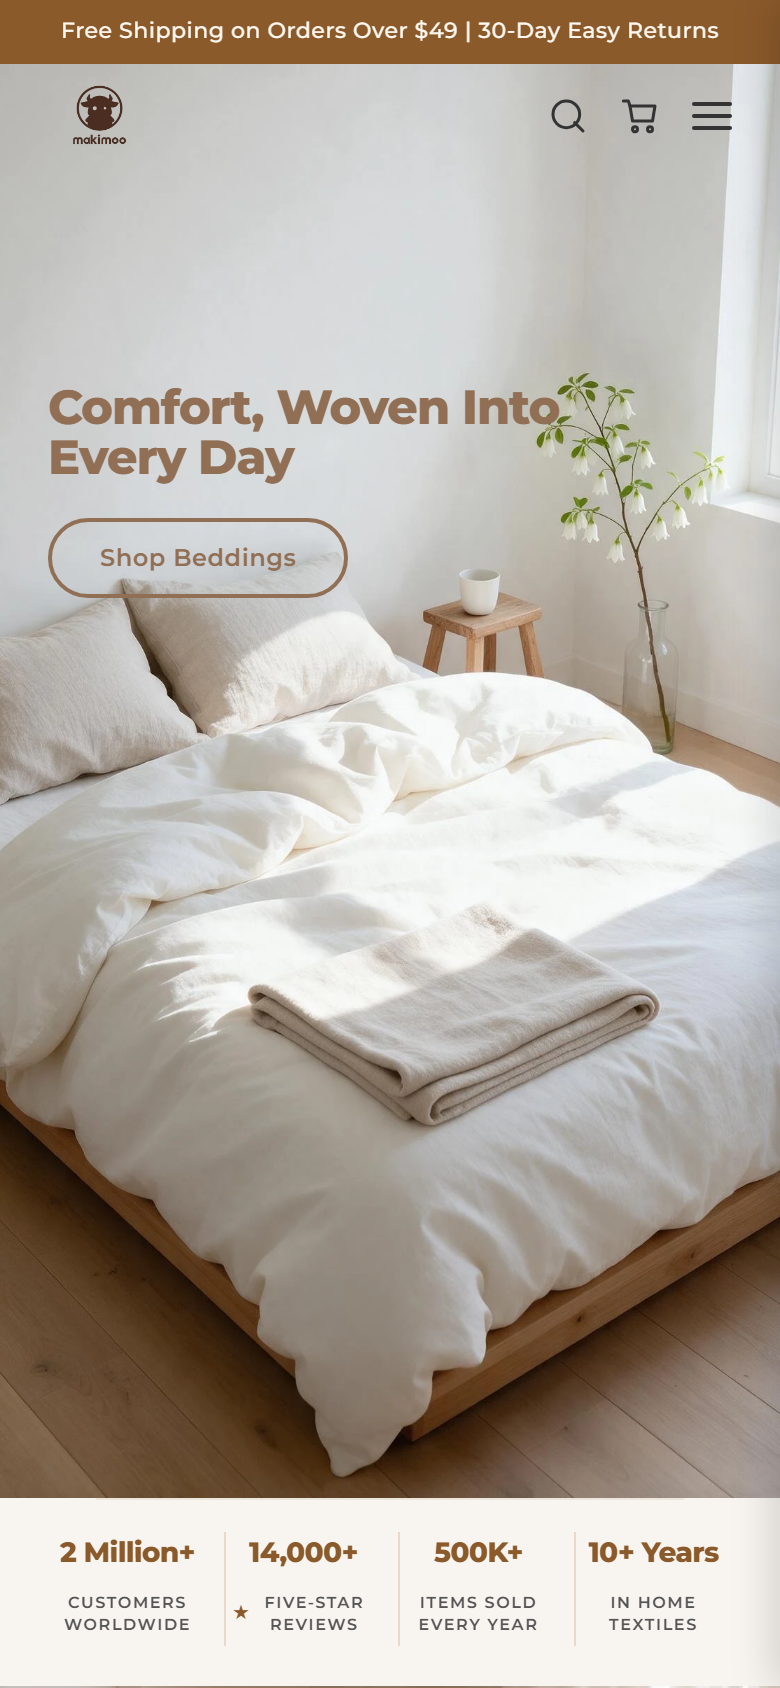
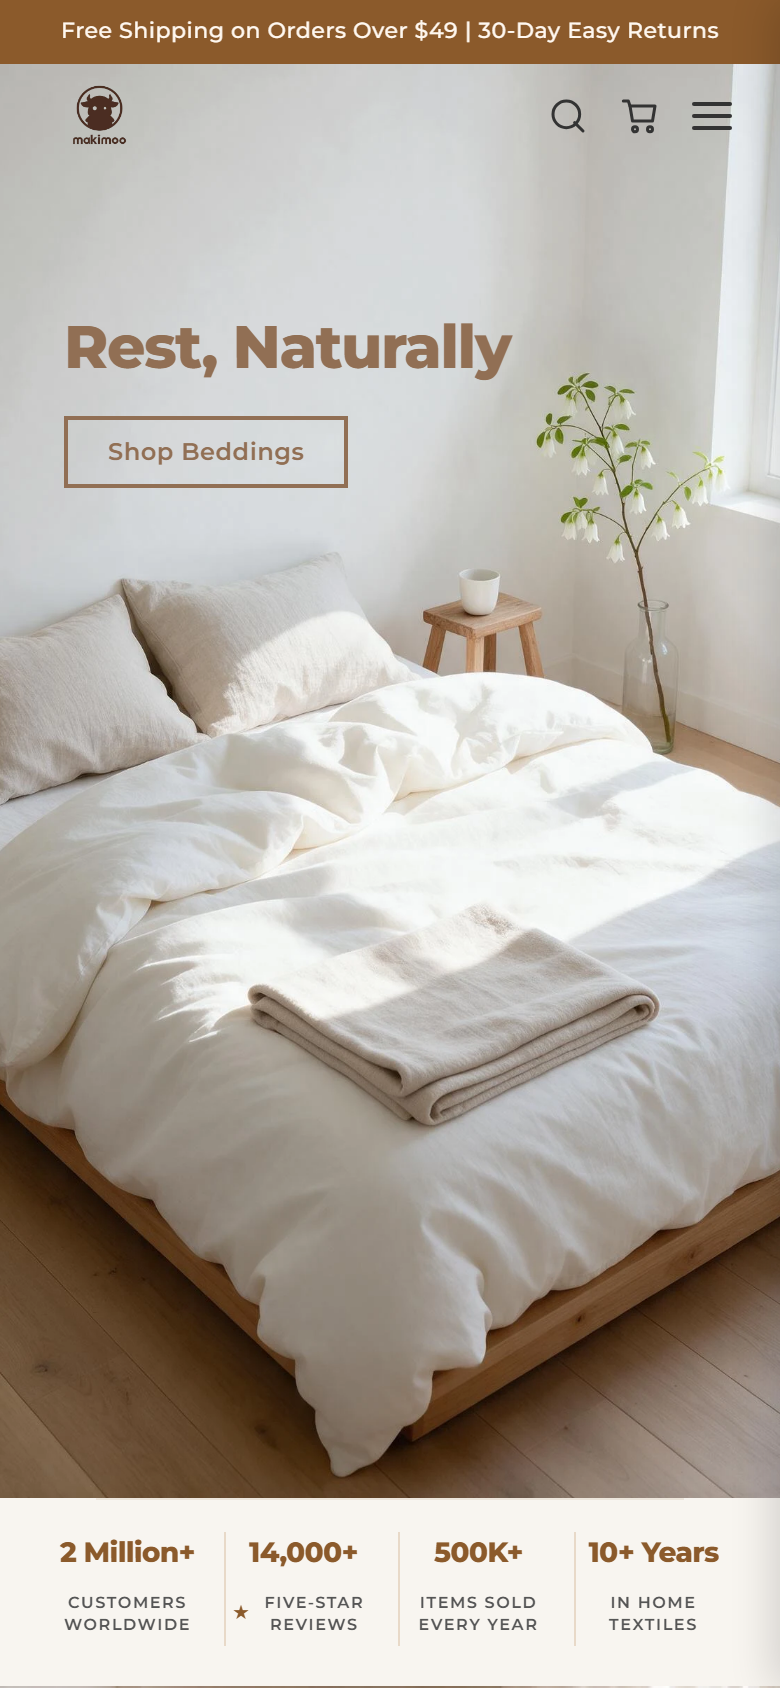
feat(home-hero): 移动端 hero 文案与按键定稿
- 文案改 Rest, Naturally（单行），原木同色 #916F54，30px 加粗
- 文字块改 pt-[15svh] 相对顶部等比定位，跨设备位置一致
- 按键缩小并改直角（桌面端保持圆角）
- 文字右移 8px、整体位置多轮微调

Changed region(s): [[0.0615, 0.1848, 0.7077, 0.3697], [0.4308, 0.3081, 0.4615, 0.3389]]

diff --git a/src/data/product-weights.ts b/src/data/product-weights.ts
@@ -1,6 +1,6 @@
 // Auto-generated by scripts/build-weights.js
 // DO NOT EDIT MANUALLY - 人工赋权改 src/data/weights-overrides.ts 后重跑本脚本
-// Generated at: 2026-10-27T19:12:53.999Z
+// Generated at: 2026-10-27T19:55:34.522Z
 
 export interface ProductWeight {
   /** 一级类目（同分破平用类目平均分） */
@@ -86,7 +86,7 @@ export const PRODUCT_WEIGHTS: Record<string, ProductWeight> = {
   "mk-pc-boucle-white-45": {"type":"Pillows","score":28.5,"perf":28.5,"boost":0},
   "mk-pc-boucle-oatmeal-45": {"type":"Pillows","score":28.6,"perf":28.6,"boost":0},
   "mk-pc-boucle-dustyrose-45": {"type":"Pillows","score":28.4,"perf":28.4,"boost":0},
-  "mk-pc-boucle-sage-45": {"type":"Pillows","score":28.1,"perf":28.1,"boost":0},
+  "mk-pc-boucle-sage-45": {"type":"Pillows","score":28,"perf":28,"boost":0},
   "mk-pc-boucle-white": {"type":"Pillows","score":28.6,"perf":28.6,"boost":0},
   "mk-pc-boucle-oatmeal": {"type":"Pillows","score":28.3,"perf":28.3,"boost":0},
   "mk-pc-boucle-dustyrose": {"type":"Pillows","score":28.6,"perf":28.6,"boost":0},
@@ -155,7 +155,7 @@ export const PRODUCT_WEIGHTS: Record<string, ProductWeight> = {
   "1052755373494-c2": {"type":"Mats","score":23,"perf":23,"boost":0},
   "1046667161713-c2": {"type":"Mats","score":21.7,"perf":21.7,"boost":0},
   "969627065032-c33": {"type":"Blankets","score":21.6,"perf":21.6,"boost":0},
-  "744995685423-c2": {"type":"Mats","score":21.7,"perf":21.7,"boost":0},
+  "744995685423-c2": {"type":"Mats","score":21.6,"perf":21.6,"boost":0},
   "595229918569-c2": {"type":"Mats","score":23.2,"perf":23.2,"boost":0},
   "744995685423": {"type":"Mats","score":21.7,"perf":21.7,"boost":0},
   "595229918569": {"type":"Mats","score":21.7,"perf":21.7,"boost":0},
@@ -259,8 +259,8 @@ export const PRODUCT_WEIGHTS: Record<string, ProductWeight> = {
   "linen3-sage-king": {"type":"Bedding","score":26.3,"perf":26.3,"boost":0},
   "linen3-charcoal-twin": {"type":"Bedding","score":26.5,"perf":26.5,"boost":0},
   "linen3-charcoal-full": {"type":"Bedding","score":26.4,"perf":26.4,"boost":0},
-  "linen3-charcoal-queen": {"type":"Bedding","score":55.6,"perf":25.6,"boost":30},
-  "linen3-charcoal-king": {"type":"Bedding","score":27.2,"perf":27.2,"boost":0},
+  "linen3-charcoal-queen": {"type":"Bedding","score":55.5,"perf":25.5,"boost":30},
+  "linen3-charcoal-king": {"type":"Bedding","score":27.1,"perf":27.1,"boost":0},
   "linen3-dustyblue-twin": {"type":"Bedding","score":26.5,"perf":26.5,"boost":0},
   "linen3-dustyblue-full": {"type":"Bedding","score":26.4,"perf":26.4,"boost":0},
   "linen3-dustyblue-queen": {"type":"Bedding","score":56.3,"perf":26.3,"boost":30},
@@ -274,7 +274,7 @@ export const PRODUCT_WEIGHTS: Record<string, ProductWeight> = {
   "linen3-oatmeal-queen": {"type":"Bedding","score":56.4,"perf":26.4,"boost":30},
   "linen3-oatmeal-king": {"type":"Bedding","score":26.9,"perf":26.9,"boost":0},
   "899672152256-c2": {"type":"Decor","score":25.9,"perf":25.9,"boost":0},
-  "899672152256-c13": {"type":"Decor","score":24.5,"perf":24.5,"boost":0},
+  "899672152256-c13": {"type":"Decor","score":24.4,"perf":24.4,"boost":0},
   "899672152256-c22": {"type":"Decor","score":26.7,"perf":26.7,"boost":0},
   "899672152256-c33": {"type":"Decor","score":27.2,"perf":27.2,"boost":0},
   "899672152256-c42": {"type":"Decor","score":27.4,"perf":27.4,"boost":0},

diff --git a/src/components/v2/V2Hero.tsx b/src/components/v2/V2Hero.tsx
@@ -36,16 +36,16 @@ export default function V2Hero() {
       {/* Text content：移动端 justify-center + pb-[calc(9svh+90px)]；
           桌面端 2026-10-27 用户定：锚定视口左侧 lg:px-[7vw]（废弃 max-w-1400 居中 + min() 抵消方案——
           不同分辨率下位置乱跳，窄屏甚至反向右移）；字号流式 clamp 随分辨率缩放；底部 justify-end + 上移 70px */}
-      <div className="relative z-10 h-full max-w-[1400px] mx-auto px-6 flex flex-col justify-center pb-[calc(9svh+215px)] lg:max-w-none lg:px-[7vw] lg:-translate-y-[70px] lg:justify-end lg:pb-[8vh]">
+      <div className="relative z-10 h-full max-w-[1400px] mx-auto px-8 lg:px-[7vw] flex flex-col justify-start pt-[15svh] lg:max-w-none lg:px-[7vw] lg:-translate-y-[70px] lg:justify-end lg:pb-[8vh]">
         <h1
-          className="text-2xl sm:text-3xl lg:text-[clamp(2rem,2.6vw,3rem)] lg:leading-[1.05] font-extrabold tracking-tight leading-[1.05] text-[#916F54] lg:text-cream max-w-3xl mb-[18px] lg:mb-7 animate-fade-in-up"
+          className="text-[30px] sm:text-3xl lg:text-[clamp(2rem,2.6vw,3rem)] lg:leading-[1.05] font-extrabold tracking-tight leading-[1.05] text-[#916F54] lg:text-cream max-w-3xl mb-[18px] lg:mb-7 animate-fade-in-up"
         >
-          Comfort, Woven Into<br />Every Day
+          Rest, Naturally
         </h1>
         <div className="animate-fade-in-up" style={{ animationDelay: '300ms' }}>
           <a
             href={v2url('/products/?cat=bedding')}
-            className="inline-block px-6 py-2.5 lg:px-7 lg:py-3 rounded-full bg-transparent border-2 border-[#916F54] text-[#916F54] hover:bg-[#916F54] hover:text-cream lg:border-cream lg:text-cream lg:hover:bg-cream lg:hover:text-brand text-xs lg:text-sm font-semibold tracking-wide transition-all duration-300 hover:shadow-xl"
+            className="inline-block px-5 py-2 lg:px-7 lg:py-3 rounded-none lg:rounded-full bg-transparent border-2 border-[#916F54] text-[#916F54] hover:bg-[#916F54] hover:text-cream lg:border-cream lg:text-cream lg:hover:bg-cream lg:hover:text-brand text-xs lg:text-sm font-semibold tracking-wide transition-all duration-300 hover:shadow-xl"
           >
             Shop Beddings
           </a>

diff --git a/src/data/shopify-map.ts b/src/data/shopify-map.ts
@@ -1,6 +1,6 @@
 // Auto-generated by scripts/build-shopify-map.js
 // DO NOT EDIT MANUALLY - Run 'node scripts/build-shopify-map.js' to update
-// Generated at: 2026-10-27T19:12:53.282Z
+// Generated at: 2026-10-27T19:55:33.799Z
 
 export interface ShopifyProductEntry {
   variantId: string;
